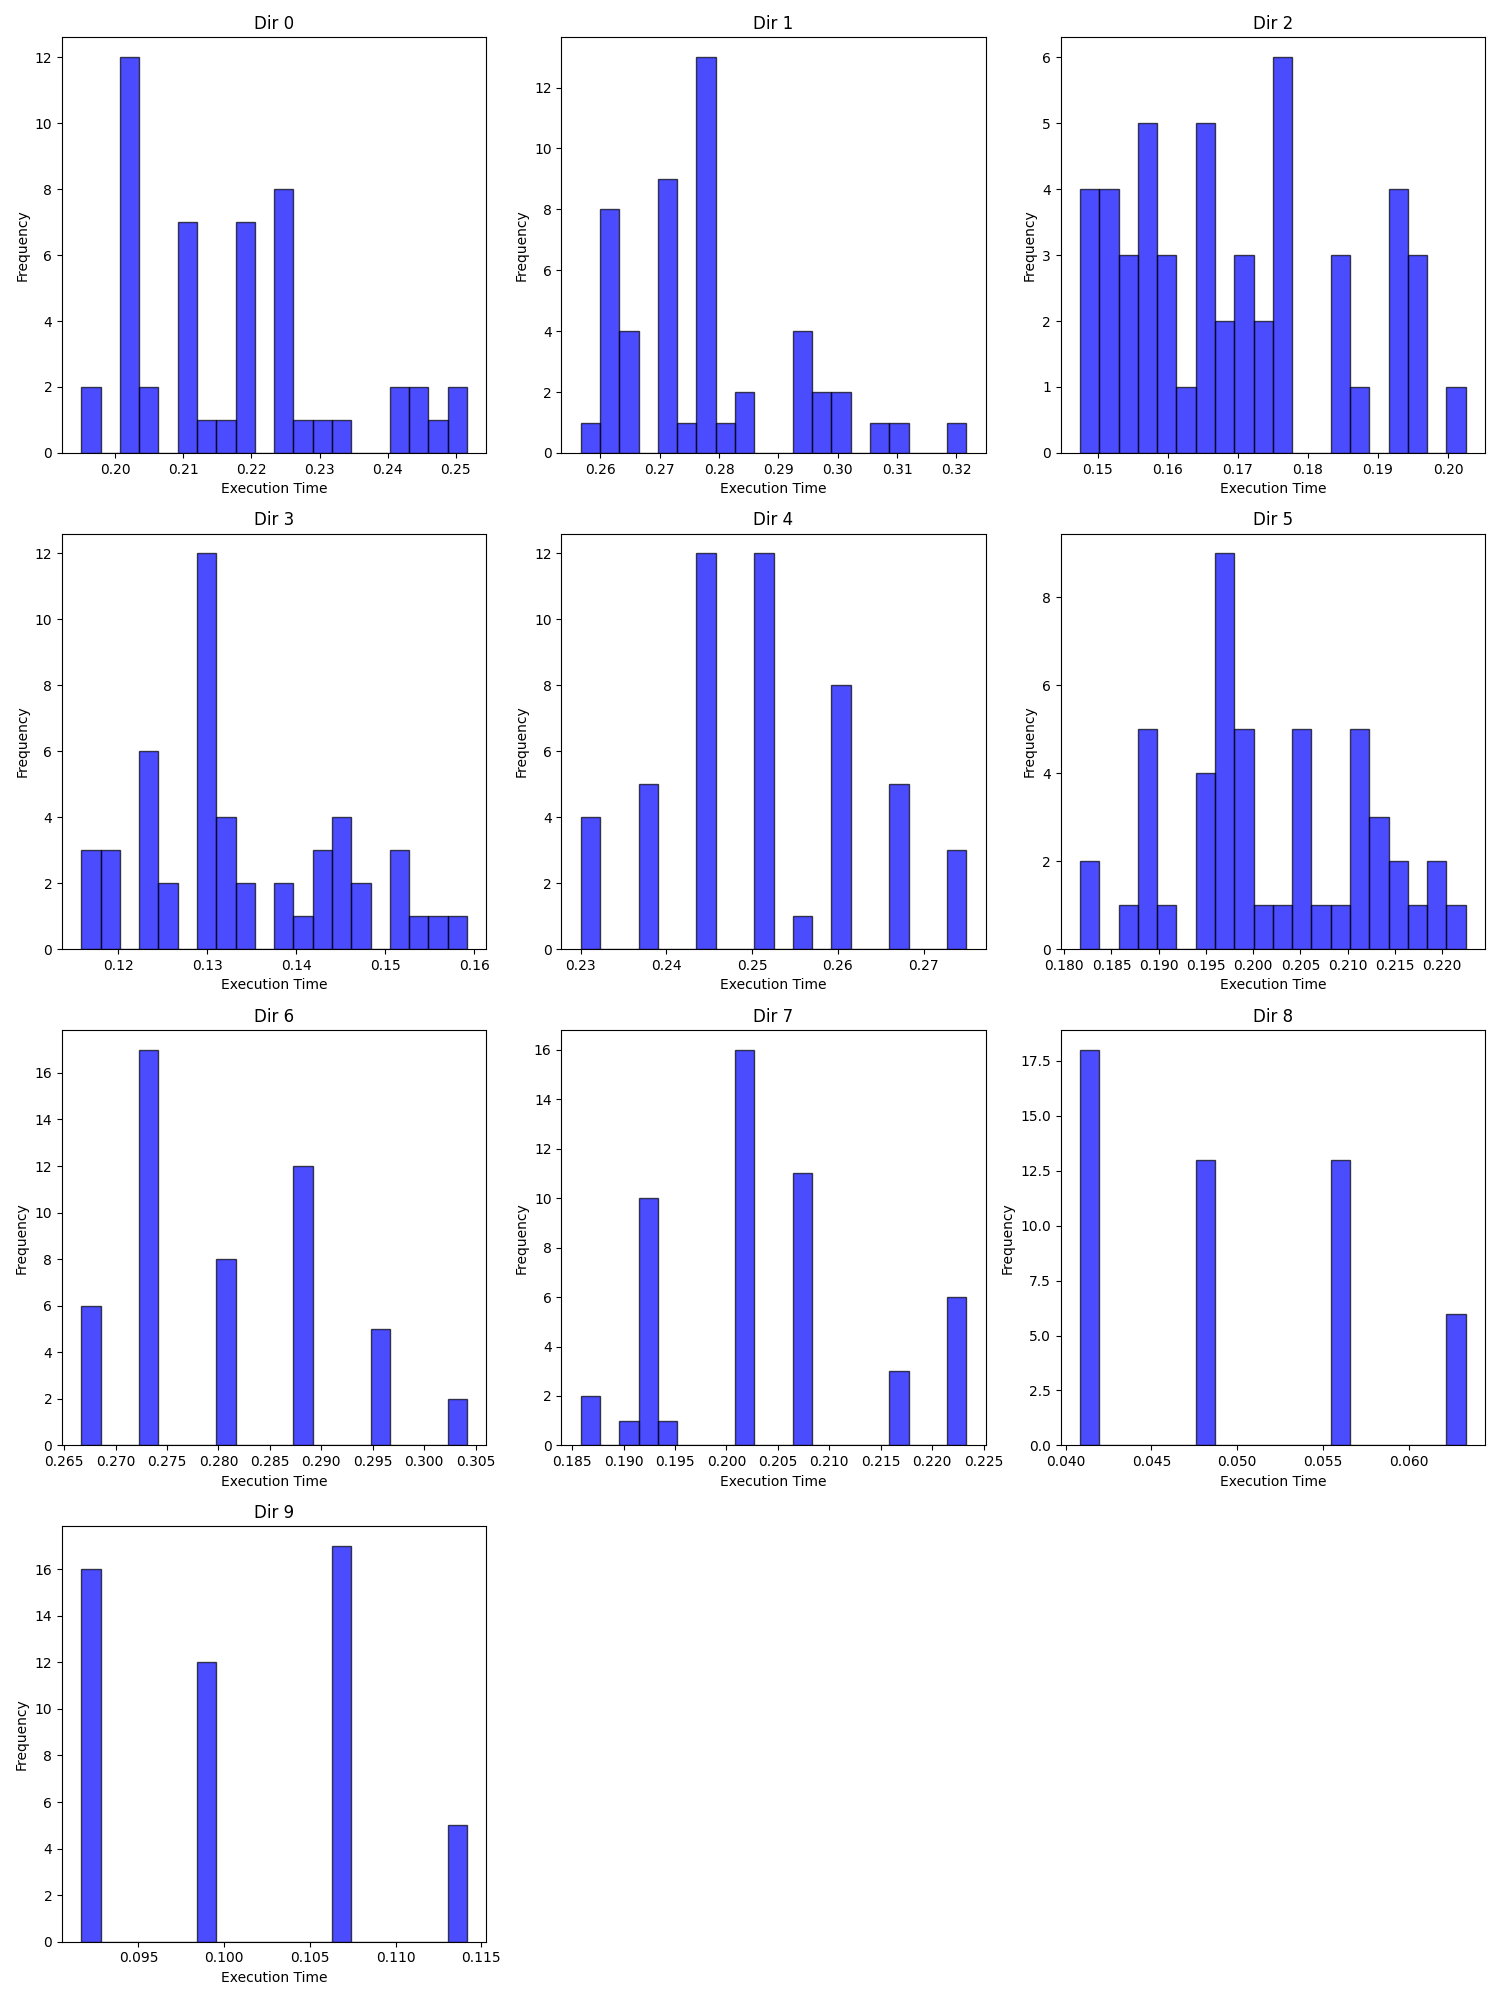
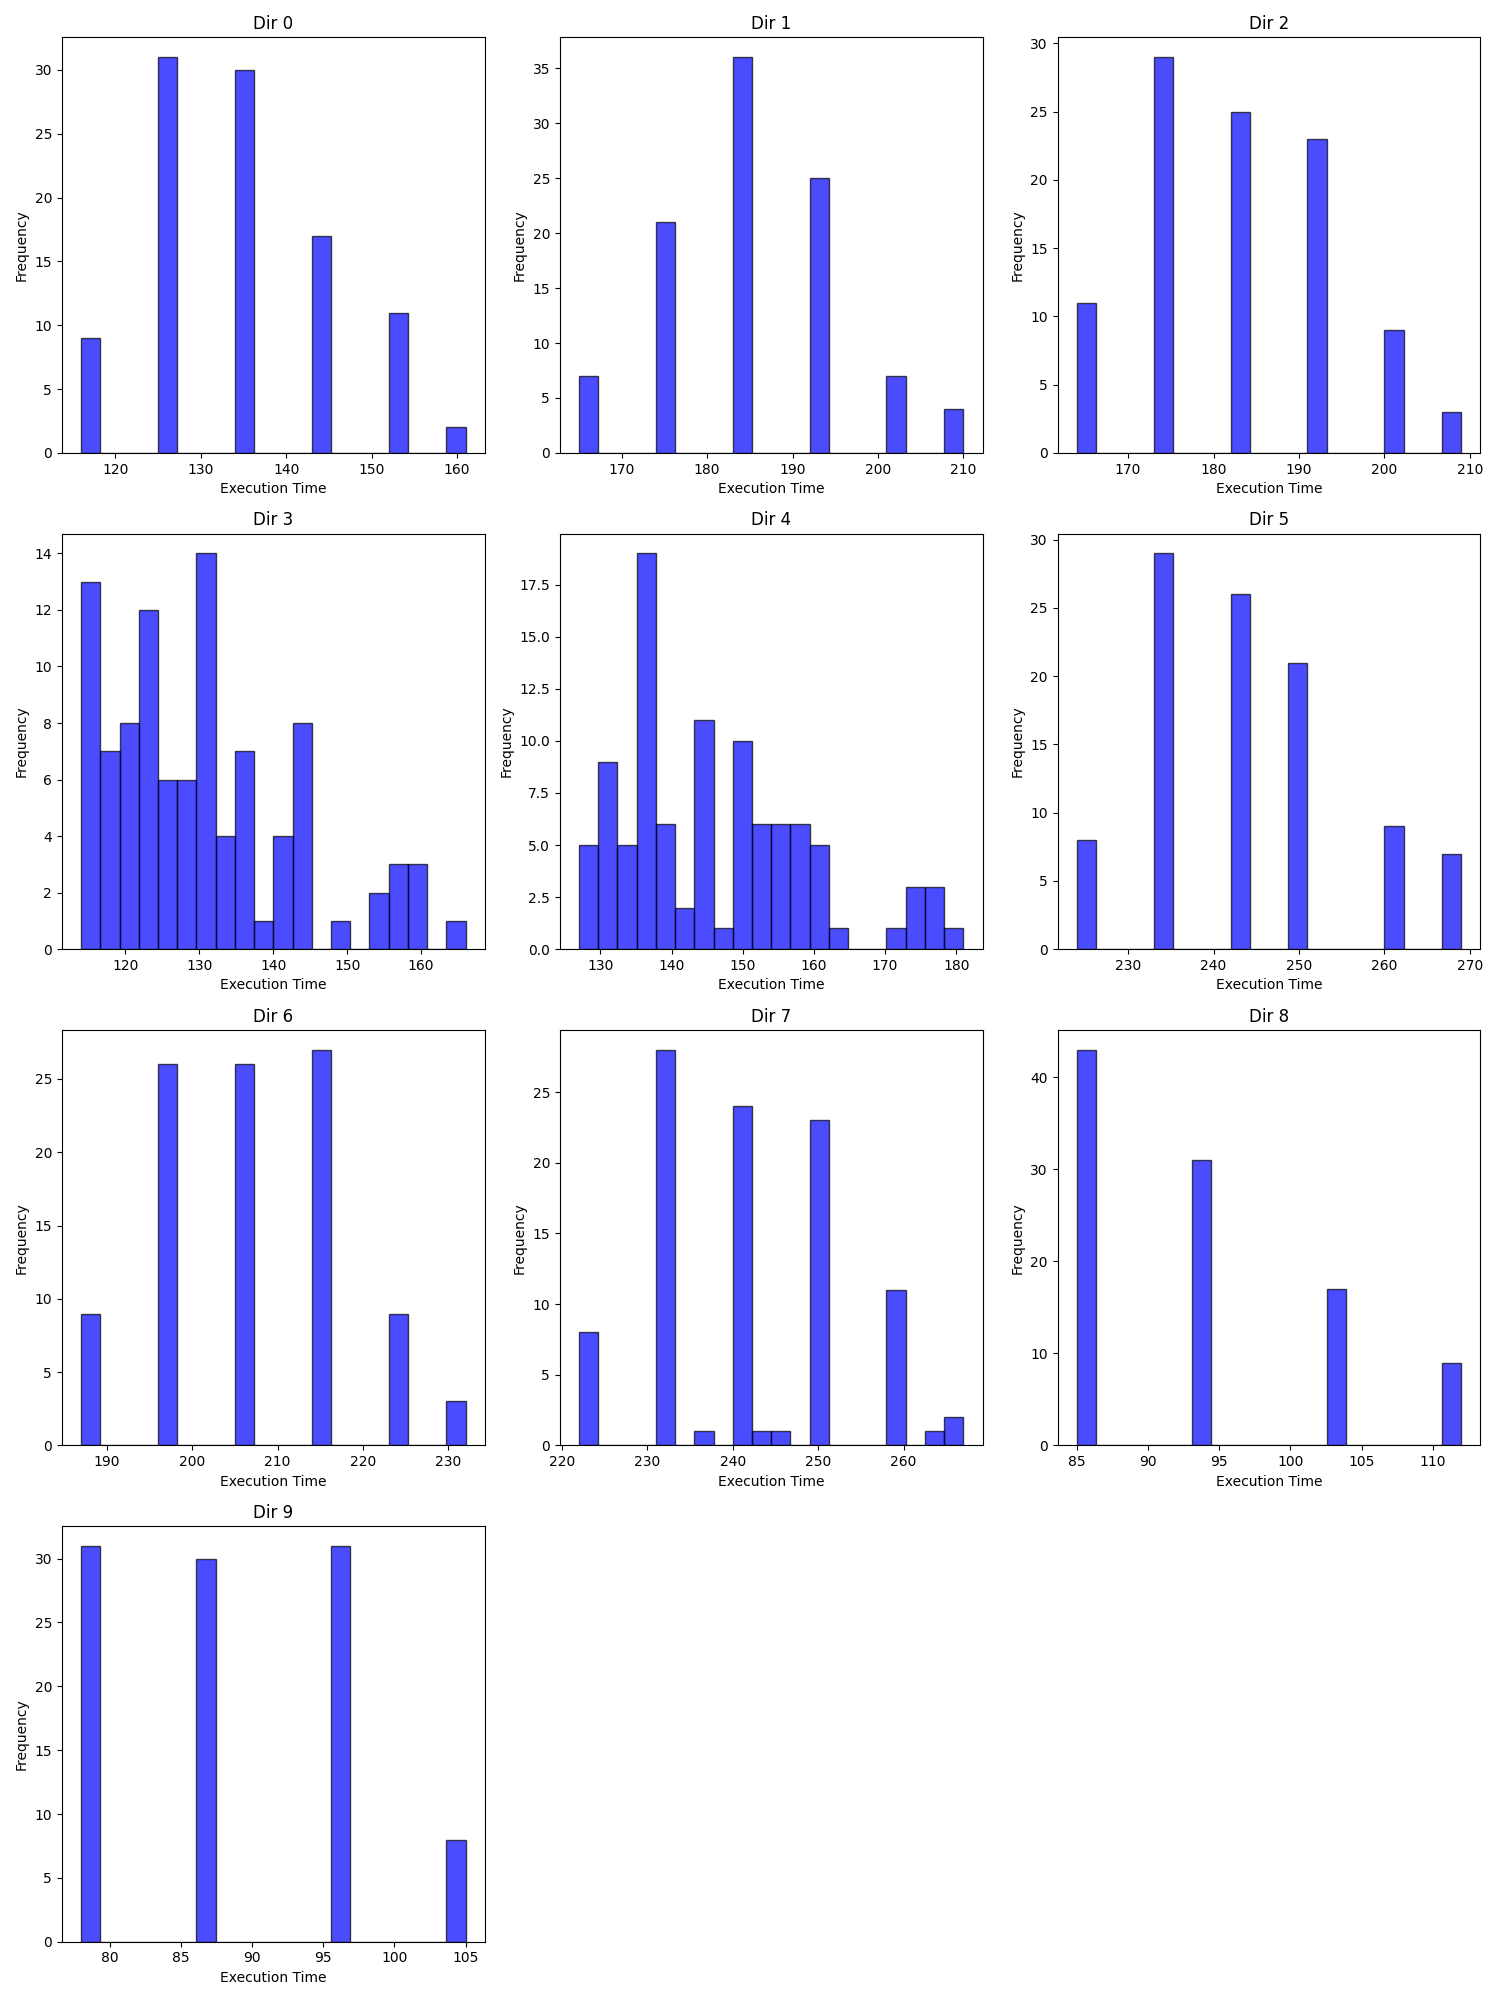
data gen params

diff --git a/data/data_gen_with_network.py b/data/data_gen_with_network.py
@@ -52,17 +52,17 @@ if __name__ == "__main__":
 
     random.seed(0)
 
-    test_split          = 1000      # 400
-    training_data_count = 4000     # 12000
+    test_split          = 400      # 400
+    training_data_count = 12000     # 12000
     training_graphs     = []
-    node_range          = (2, 6)
-    map_count           = 6  
+    node_range          = (2, 5)
+    map_count           = 1  
 
     # Simulating
     max_latency = 0 
     for i in range(training_data_count): 
         nodes               = random.randint(*node_range)
-        graph_list, latency = simulate(nodes, map_count=6)
+        graph_list, latency = simulate(nodes, map_count=map_count)
         training_graphs.extend(graph_list)  
         if latency > max_latency: 
             max_latency = latency
@@ -101,10 +101,10 @@ if __name__ == "__main__":
     # exit()
 
     num_metric_graph        = 10
-    metric_maps_per_graph   = 50
+    metric_maps_per_graph   = 100
     count                   = 0
-    std_threshold           = 12    
-    map_node_range          = [2, 3, 4, 5, 6]
+    std_threshold           = 10    
+    map_node_range          = [2, 3, 4]
 
     print(f"Creating Mapping Test graphs with std threshold {std_threshold}")
     map_count_dict = {}
@@ -124,13 +124,16 @@ if __name__ == "__main__":
                     end_cycle = node_data["end_cycle"] 
                     end_cycle_list.append(end_cycle)    
 
-            latency_list.append(max(end_cycle_list))
+            max_latency = max(end_cycle_list)
+            latency_list.append(max_latency)
 
         num_nodes = len(map_graph_list[0].nodes) - 18
 
         std = np.std(latency_list)
         latency_range = max(latency_list) - min(latency_list)   
+
         print( f"\rStd: \t{std}, num_nodes \t{num_nodes}", end='', flush=False ) 
+
         if std > std_threshold:
             dir     = os.path.join(map_test_dir, f"{count}")
 
@@ -139,15 +142,15 @@ if __name__ == "__main__":
 
             else: 
                 map_count_dict[nodes] += 1
-                if map_count_dict[nodes] >= 1: 
+                if map_count_dict[nodes] >= 3: 
                     map_node_range.remove(nodes)
-                    print(f"\nRemoving {nodes} from map_node_range")
-                    if len(map_node_range) == 2:
-                        std_threshold = 11
-                        print(f"Changing std threshold to {std_threshold}")
-                    elif len(map_node_range) == 1:
-                        std_threshold = 9
-                        print(f"Changing std threshold to {std_threshold}")
+                    # print(f"\nRemoving {nodes} from map_node_range")
+                    if len(map_node_range) == 1:
+                        std_threshold = 8.5
+                    #     print(f"Changing std threshold to {std_threshold}")
+                    # elif len(map_node_range) == 1:
+                    #     std_threshold = 9
+                    #     print(f"Changing std threshold to {std_threshold}")
 
             if not os.path.exists(dir): 
                 os.makedirs(dir)

diff --git a/data/inspect_map_metric.py b/data/inspect_map_metric.py
@@ -4,6 +4,7 @@ import torch
 import networkx as nx
 
 from training.noc_dataset import NocDataset
+import yaml
 
 import matplotlib.pyplot as plt
 
@@ -96,6 +97,9 @@ if __name__ == "__main__"  :
     execution_time_dict = {}
     graph_list          = []
 
+    params = yaml.safe_load(open("training/config/params_with_network.yaml"))
+    max_cycle = params["MAX_CYCLE"]
+
     for i in range(num_dirs): 
         dir_path = os.path.join(map_test_directory, f"{i}")
         dataset  = NocDataset(dir_path)
@@ -110,7 +114,7 @@ if __name__ == "__main__"  :
             data = data
 
             max_index       = torch.argmax(data["task"].y[:, 1])
-            execution_time  = data["task"].y[max_index, 1]
+            execution_time  = data["task"].y[max_index, 1]  * max_cycle
 
             execution_time_list.append(execution_time)
 
